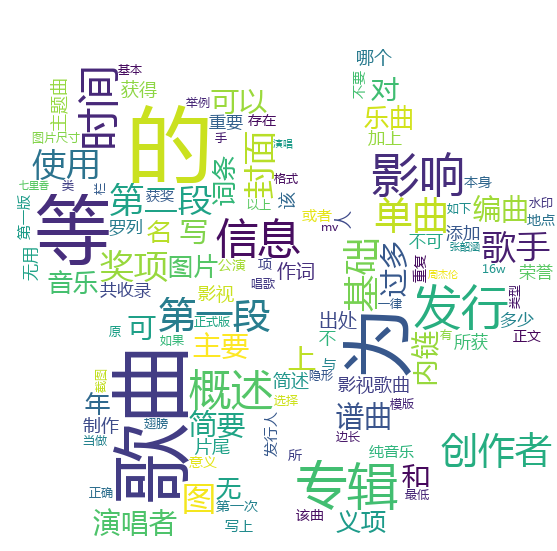
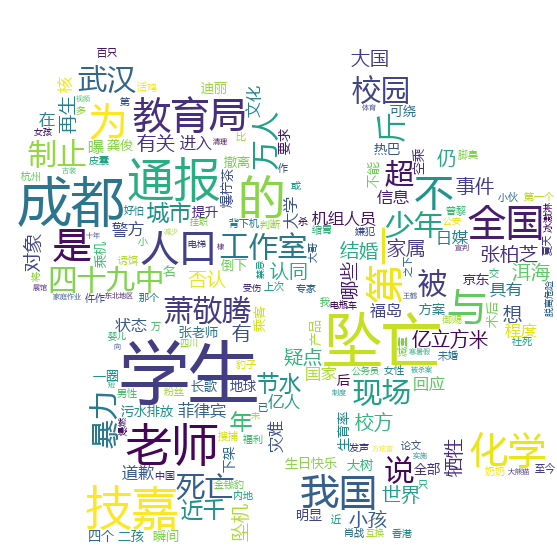
init

Changed region(s): [[0.0305, 0.0926, 1.0, 0.9873]]

diff --git a/main.py b/main.py
@@ -3,12 +3,28 @@ import numpy as np
 from PIL import Image
 from wordcloud import WordCloud
 import matplotlib.pyplot as plt
+import requests
+from bs4 import BeautifulSoup
+
+url = 'https://s.weibo.com/top/summary?Refer=top_hot&topnav=1&wvr=6'
 
 if __name__ == '__main__':
-    # 导入文本数据并进行简单的文本处理
-    # 去掉换行符和空格
+    # 微博爬虫
+    r = requests.get(url)
+    r.raise_for_status()
+    r.encoding = r.apparent_encoding
+    soup = BeautifulSoup(r.text, 'html.parser')
+    data = soup.find_all('a')
+    d_list = []
+    for item in data:
+        d_list.append(item.text)
+    words = d_list[4:-11:]
+    # 中文分词
+    with open('./data/test.txt', 'w') as f:
+        f.write('\n'.join(words))
+
     text = open("./data/test.txt", encoding='utf8').read()
-    text = text.replace('\n', "").replace("\u3000", "")
+    text = text.replace('\n', "")
     # 分词，返回结果为词的列表
     text_cut = jieba.lcut(text)
     # 将分好的词用某个符号分割开连成字符串

diff --git a/README.md b/README.md
@@ -1,2 +1,7 @@
 # cloud_graph
-云图
+微博热词云图生成器
+
+爬取微博热搜并生成云图
+
+![avatar](./test.png)
+
